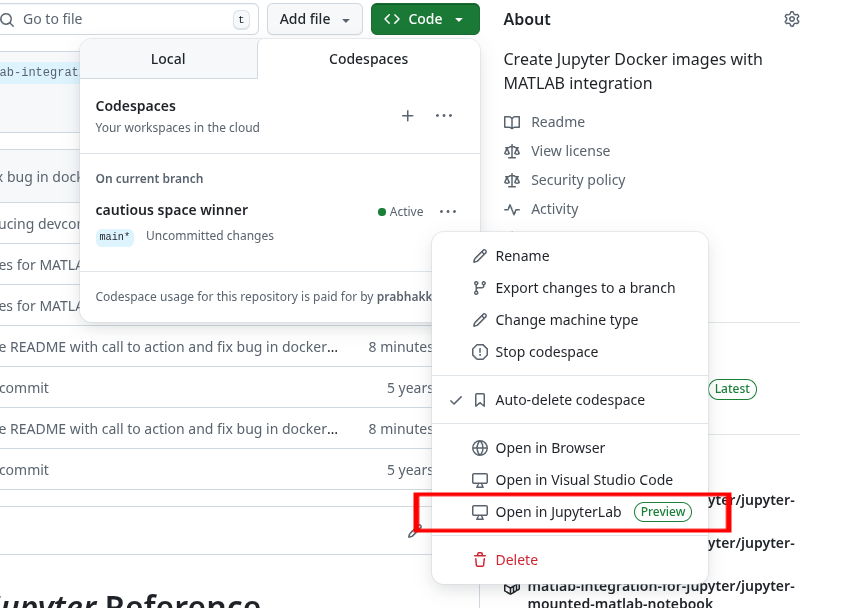
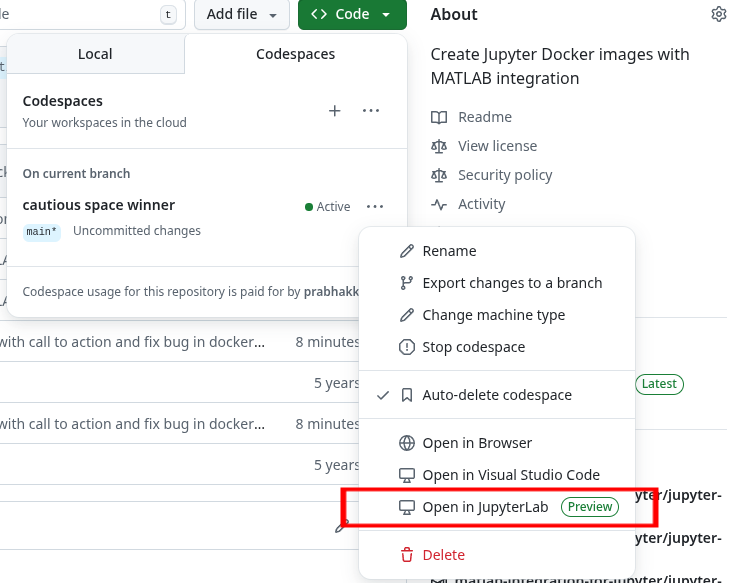
update readme image

diff --git a/README.md b/README.md
@@ -14,7 +14,9 @@ Just click the button above to launch a new Codespace with MATLAB and Jupyter re
 ### Important: Using Codespaces with JupyterLab
 To view the codespace with JupyterLab you will need to specifically select the JupyterLab editor when your codespace launches.
 
-![Open in JupyterLab](./resources/open-in-jupyterlab.png)
+<p align="left">
+    <img src="./resources/open-in-jupyterlab.png" alt="Open in JupyterLab" style="border: 1px solid black; width: 50%;">
+</p>
 
 See [Setting your default editor (GitHub Docs*)](https://docs.github.com/en/enterprise-cloud@latest/codespaces/setting-your-user-preferences/setting-your-default-editor-for-github-codespaces#setting-your-default-editor) to set JupyterLab as your preferred editor, enabling single click access to codespaces via JupyterLab.
 
